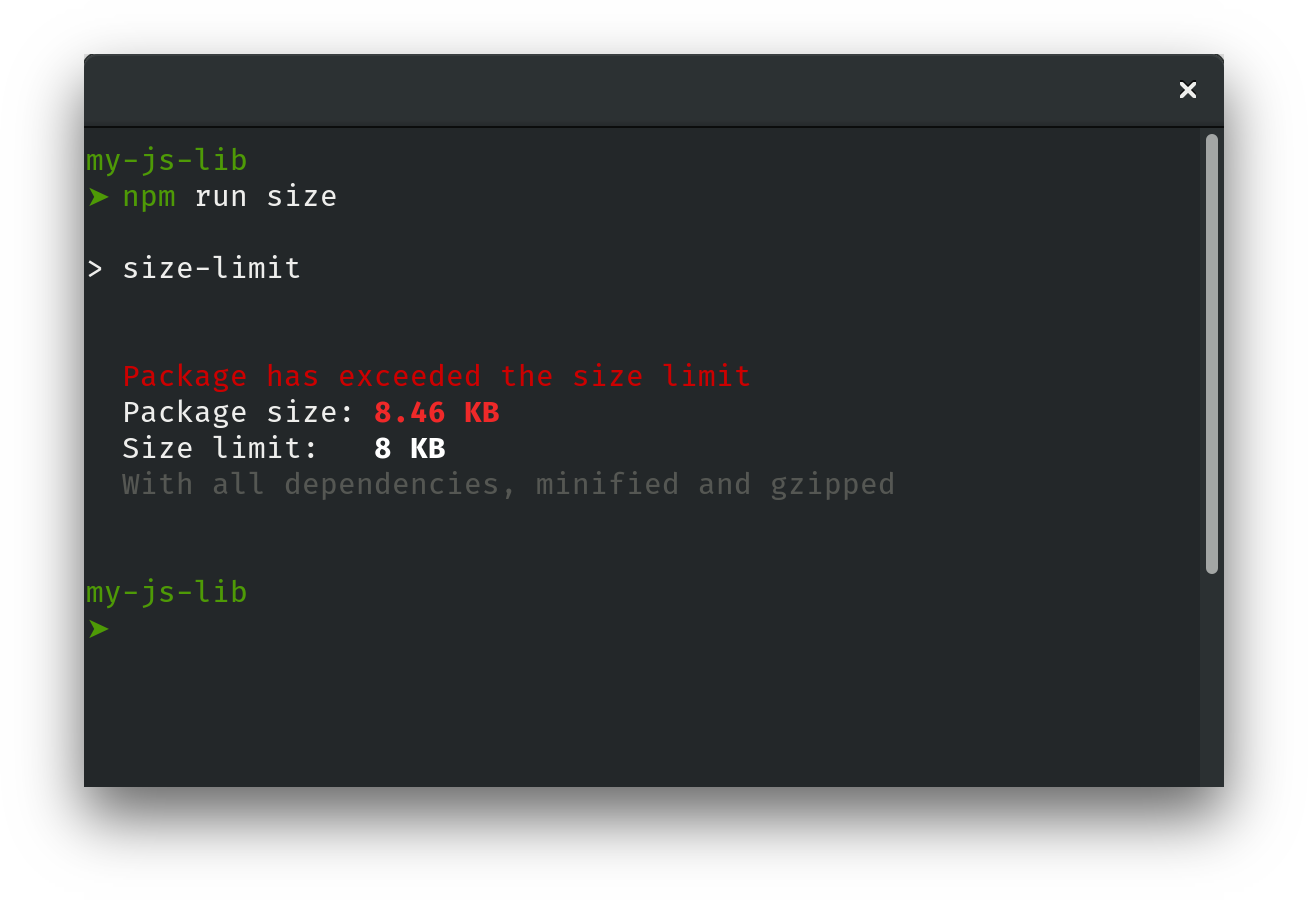
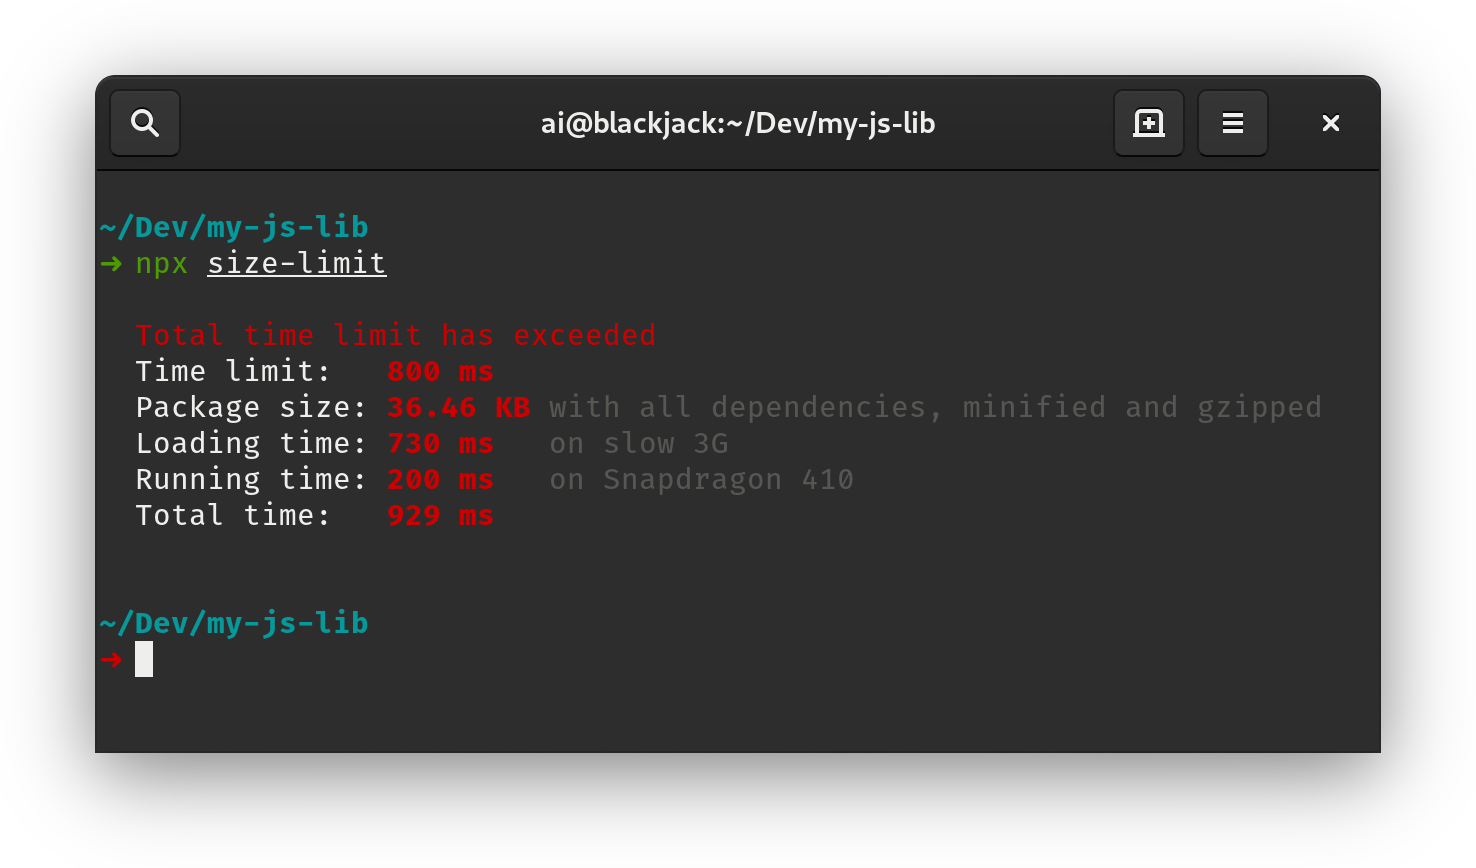
Update screenshot

diff --git a/README.md b/README.md
@@ -13,7 +13,7 @@ add a massive dependency, Size Limit will throw an error.
 
 <p align="center">
   <img src="./img/example.png" alt="Size Limit example"
-       width="654" height="450">
+       width="738" height="434">
 </p>
 
 Size Limit could tell you not only library size. With `--why` argument it can
